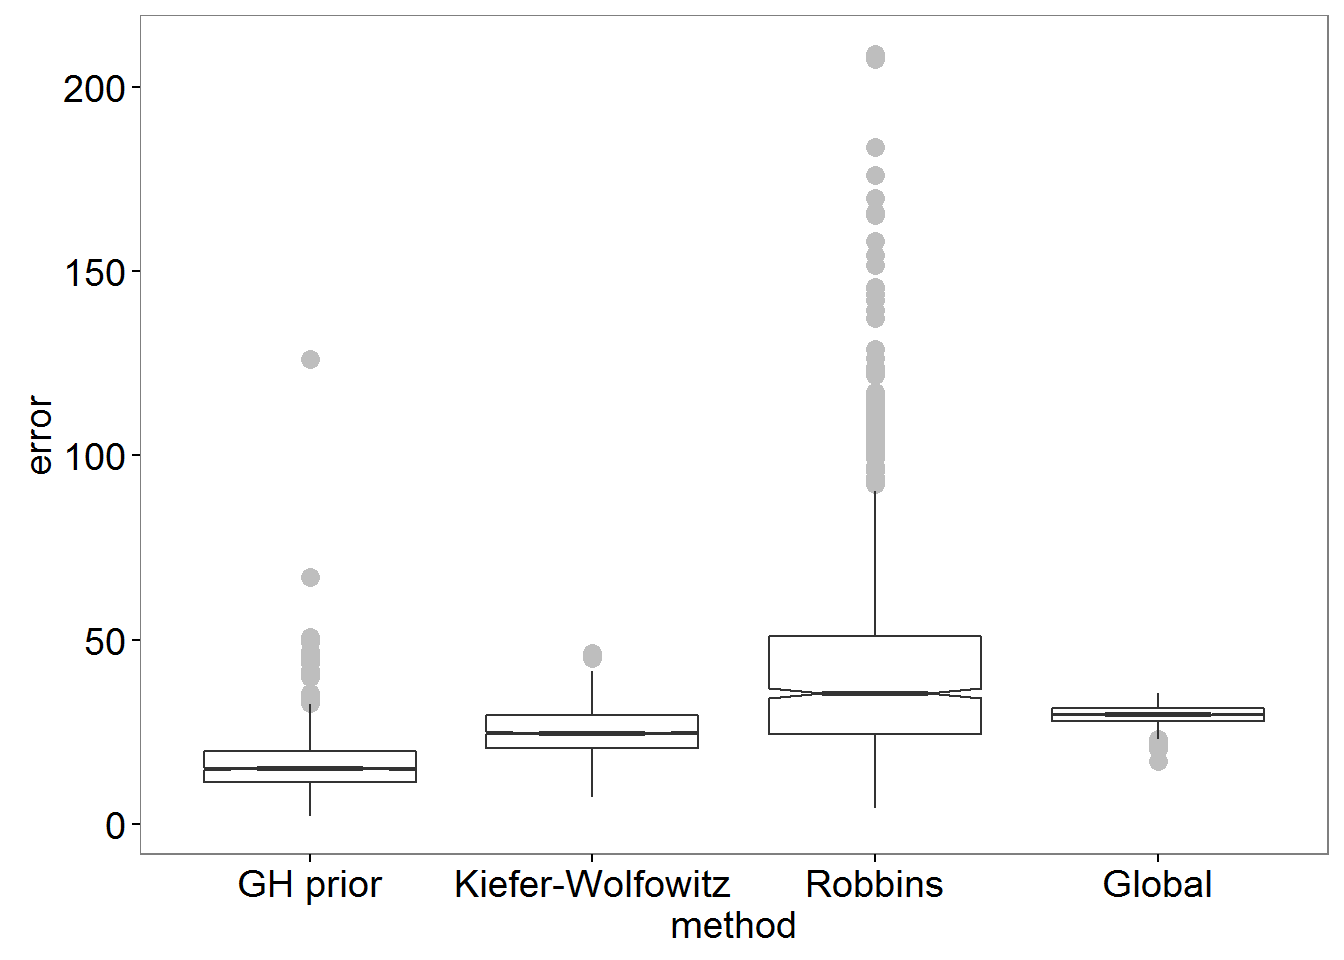
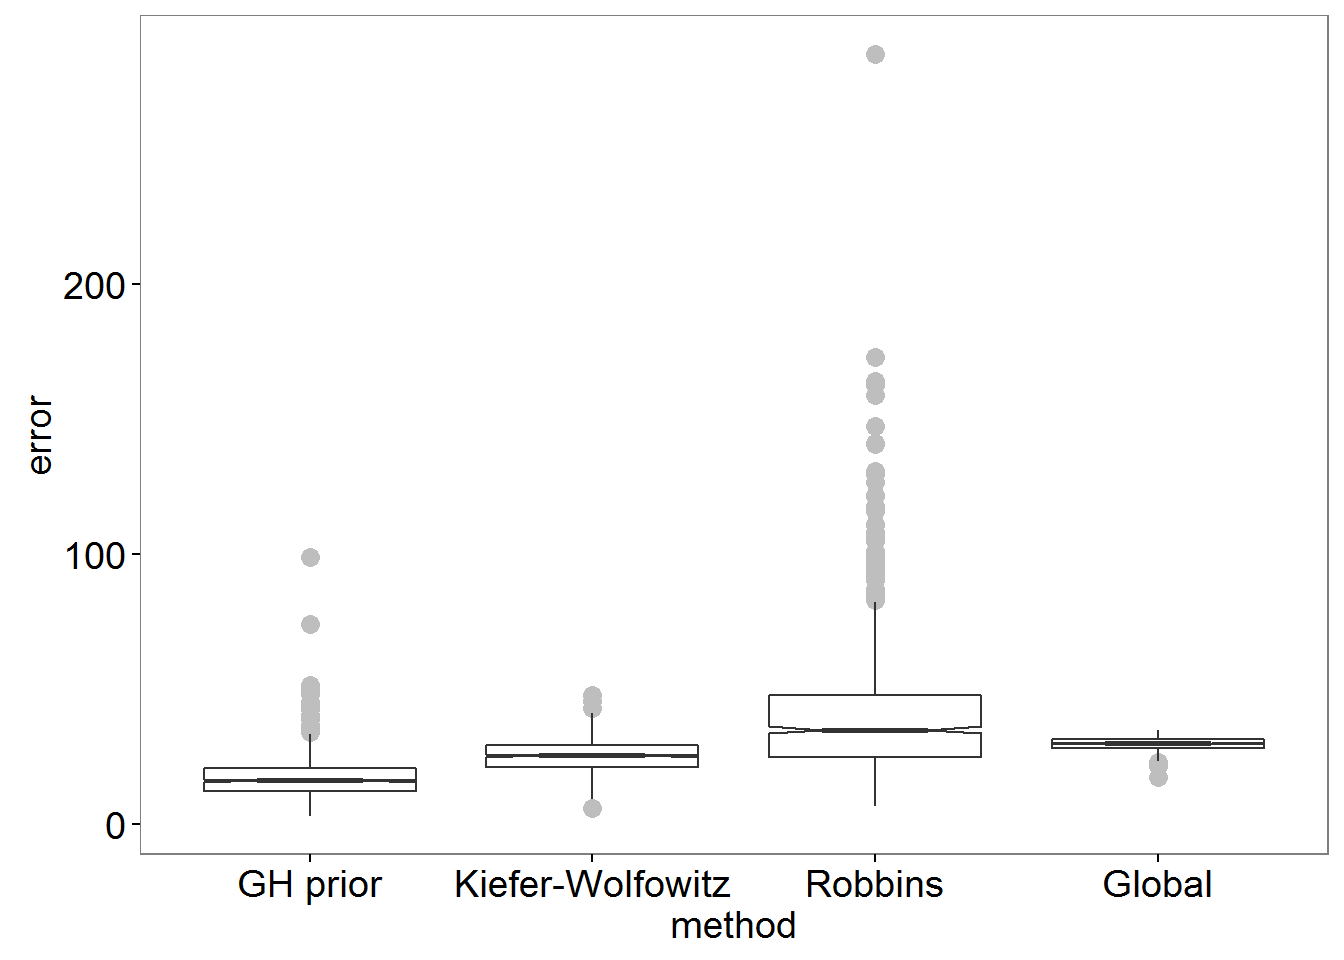
New simulation study
Changed the code for Empirical Bayes estimator slightly. The new version
has smaller values of $\alpha$ and $\tau$.

diff --git a/GHsim.html b/GHsim.html
@@ -117,7 +117,7 @@ $(document).ready(function () {
 <h1 class="title toc-ignore">Gauss Hypergeometric Prior: Simulation Experiments</h1>
 <h4 class="author"><em>Jyotishka Datta</em></h4>
 <address class="author_afil">
-Duke University<br><h4 class="date"><em>19 June, 2016</em></h4>
+Duke University<br><h4 class="date"><em>21 June, 2016</em></h4>
 
 </div>
 
@@ -287,10 +287,10 @@ for (i in 1:2) {
   if(iter%%(niter/10)==0){printf(&quot;Iteration = %d&quot;,iter)}
   y = rpois(n,thetasparse)
   ## Direct Posterior mean
-  kappahat = 3/(2*y+4)*(vf21hyper(gam.c,5/2,y+3,1-tau.sq)/vf21hyper(gam.c,3/2,y+2,1-tau.sq))
-  thetahat.dir = (1-kappahat)*(y+1/2)
-  thetahat.dir[(1-kappahat&lt;tau.sq)] &lt;- 0
-  
+  alpha = 0.01;tau.sq = 0.01;
+  kappahat = (beta(alpha+3/2,y+1/2)/beta(alpha+1/2,y+1/2))*
+    (vf21hyper(gam.c,3/2+alpha,y+alpha+2,1-tau.sq)/vf21hyper(gam.c,alpha+1/2,y+alpha+1,1-tau.sq))
+  thetahat.dir = (1-kappahat)*(y+alpha)
   ##  Only Global Shrinkage
   gl = globalshrink(5000,y)
   thetahat.gl=apply(gl$TH,1,mean)
@@ -345,7 +345,7 @@ err.plot &lt;- err.plot + theme(axis.title.y = element_text(size = rel(1.2), ang
 err.plot &lt;- err.plot + theme(legend.position = &quot;right&quot;,legend.key = element_rect(colour = &quot;black&quot;),legend.text=element_text(size=rel(1.2)))
 err.plot&lt;- err.plot+ theme(axis.text = element_text(size = rel(1.2)))
 print(err.plot)</code></pre>
[2 lines of base64/hex data omitted]
 <p>Now the errors as a table (sorry for the poor quality!):</p>
 <pre class="r"><code>library(pander)
 library(tables)
@@ -377,16 +377,16 @@ Global
 mean
 </th>
 <td>
-16.2
+17.0
 </td>
 <td>
-25.0
+25.1
 </td>
 <td>
-42.0
+39.9
 </td>
 <td>
-29.6
+29.5
 </td>
 </tr>
 <tr class="center">
@@ -397,10 +397,10 @@ sd
 7.8
 </td>
 <td>
-6.3
+6.0
 </td>
 <td>
-27.9
+24.0
 </td>
 <td>
 2.5
@@ -411,16 +411,16 @@ sd
 median
 </th>
 <td>
-15.2
+16.0
 </td>
 <td>
-24.8
+25.2
 </td>
 <td>
-35.5
+34.9
 </td>
 <td>
-29.7
+29.8
 </td>
 </tr>
 </tbody>
